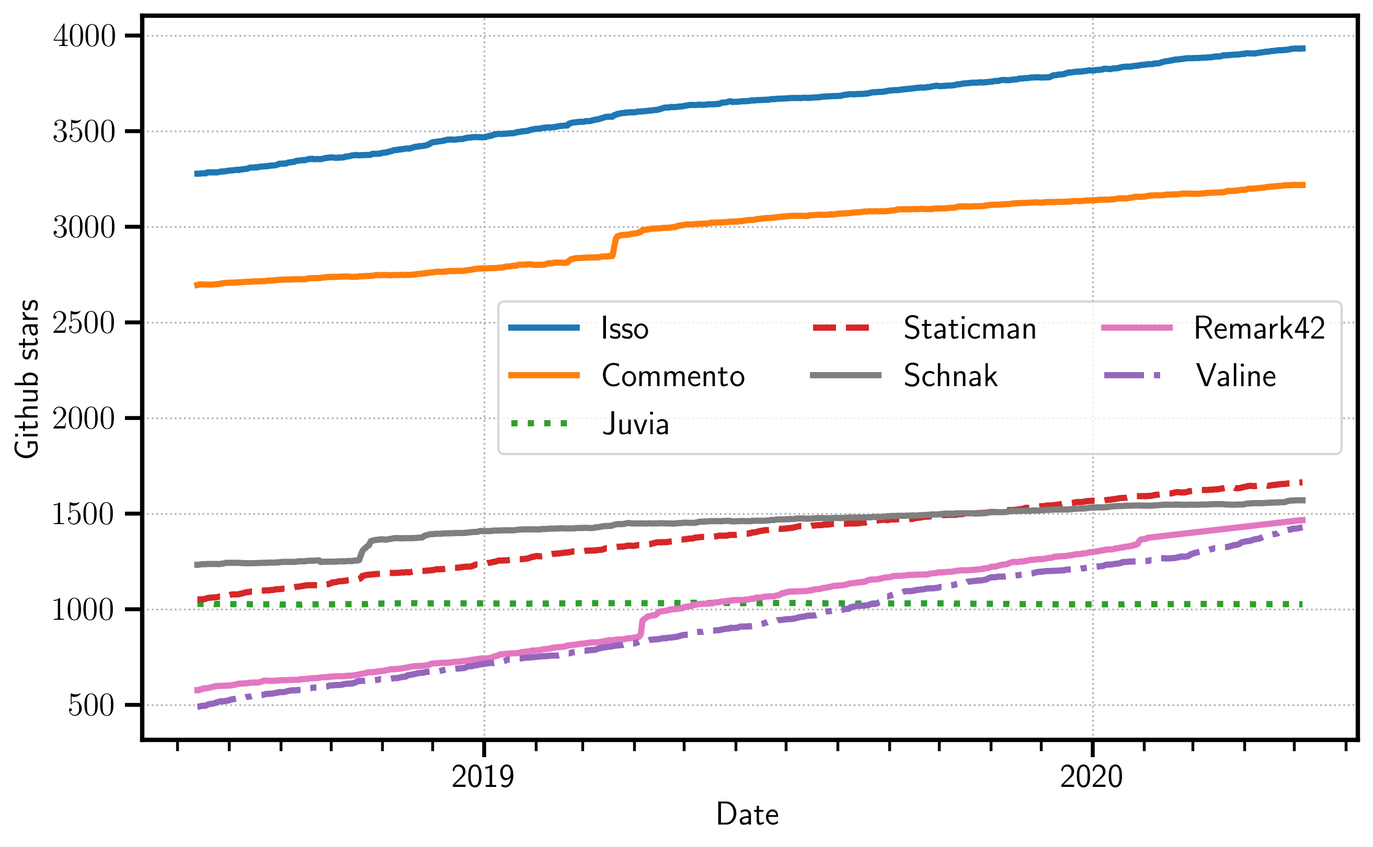
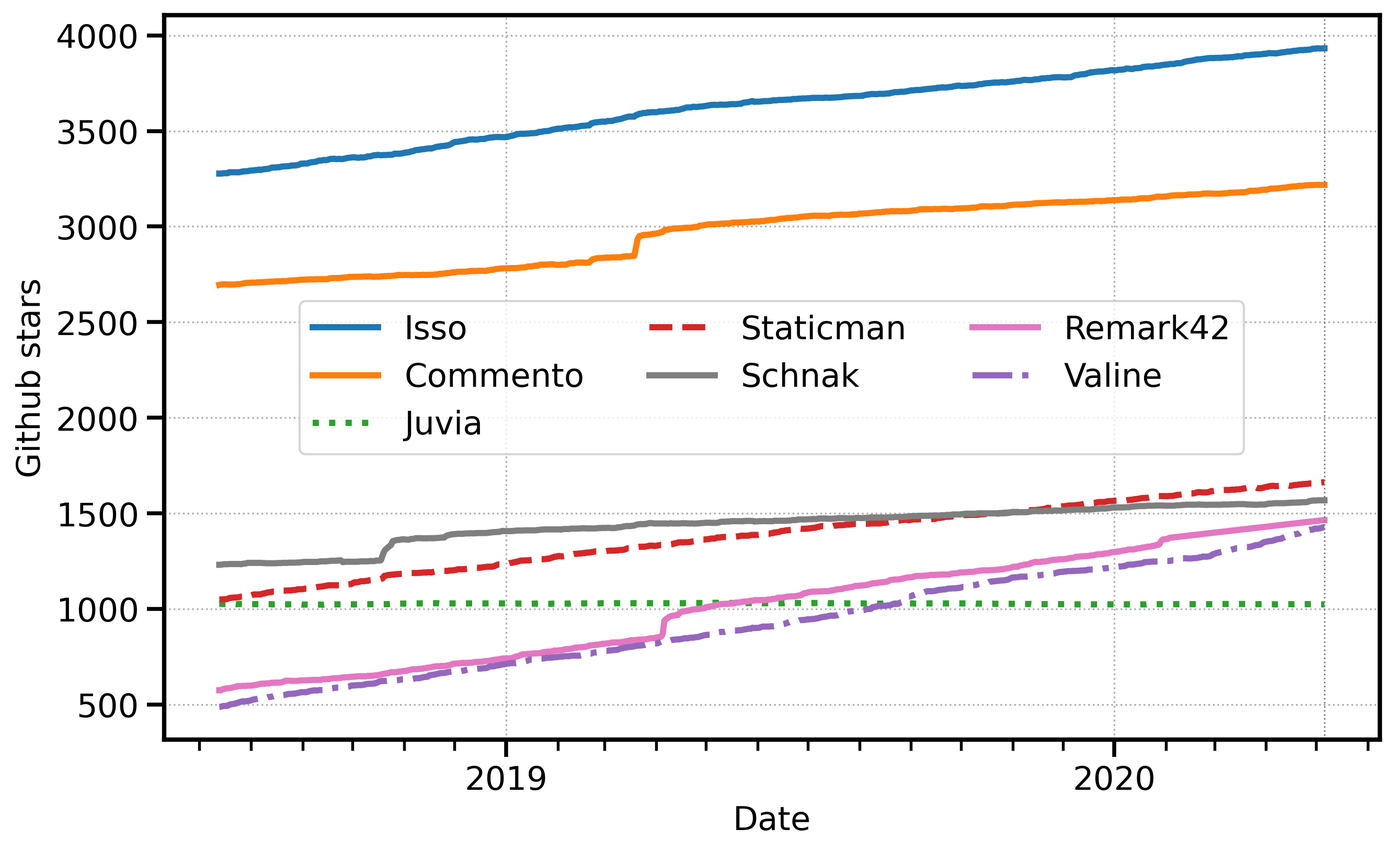
remove tex from plot

diff --git a/data.js b/data.js
@@ -3,7 +3,7 @@ var osc_data = [
 [ '3218', '5', 'Commento', '<a href="https://gitlab.com/commento/commento">gitlab</a>, <a href="https://github.com/adtac/commento">github</a>', '0', '<a href="https://demo.commento.io">demo</a>', '16', '', 'Go', 'PostgreSQL', 'yes', 'google', 'yes', 'no', '?', '?', 'yes', '?', '?', '?', 'no?', 'yes', 'currently in <a href="https://commento.io">private&nbsp;β</a>', 'yes', '?', '?', '?', '?', '?', '?', 'yes', 'yes', '', 'no', '?', 'MIT', '?', 'no', '2017‑04‑24', '2020‑04‑11', 'Lightweight commenting system', ],
 [ '1569', '10', 'Schnak', '<a href="https://github.com/schn4ck/schnack">github</a>', '30', '<a href="https://schnak.cool">demo</a>', '8', '', 'Node.js', 'SQLite?', '?', 'github, google, twitter, facebook', '?', '?', '?', 'approve comments, trust/block users', '?', '? <a href="https://tools.ietf.org/html/draft-ietf-webpush-protocol-12">webpush protocol</a>', '?', '?', '?', '?', '?', '?', '?', 'yes', '?', '?', '?', 'yes', 'yes', 'yes', '?', 'no', '?', 'NOASSERTION', '?', 'no', '2017‑10‑04', '2019‑03‑05', 'Simple Disqus-like drop-in commenting system written in JavaScript', ],
 [ '1025', '-1', 'Juvia', '<a href="https://github.com/phusion/juvia">github</a>', '26', '<a href="https://www.alfajango.com/blog/announcing-dynatable-js/">[1]</a>, <a href="https://erik.doernenburg.com/2015/08/privacy-and-this-website/">[2]</a>', '', '', 'Ruby', 'MySQL?', '?', '?', '?', '?', '?', 'Full-featured admin panel for multiple users', 'no', 'yes', 'Akismet', '?', '?', 'Gravatar', '?', '?', '?', '?', '?', '?', '?', 'yes', '?', 'yes', '', 'no', '?', 'AGPL-3.0', '?', 'no', '2011‑08‑11', '2019‑03‑14', 'Unmaintained since 2015. Not so lightweight Ruby on Rails app. Live preview &amp; elaborated admin panel.', ],
-[ '14', '0', 'SitePointNestedComments', '<a href="https://github.com/bodrovis/SitePointNestedComments">github</a>', '0', '<s><a href="http://nested-comments.radiant-wind.com/">demo</a></s>', '', '', 'Ruby', '?', '?', '?', '?', '?', '?', '?', '?', '?', '?', '?', '?', '?', '?', '?', '?', '?', '?', '?', '?', '?', '?', '?', '', 'no', '?', '?', '?', 'no', '2014‑04‑08', '2016‑11‑29', 'Rails app with the help of the closure_tree gem', ],
+[ '14', '0', 'SitePointNestedComments', '<a href="https://github.com/bodrovis/SitePointNestedComments">github</a>', '0', '<s><a href="http://nested-comments.radiant-wind.com/">demo</a></s>', '', '', 'Ruby', '?', '?', '?', '?', '?', '?', '?', '?', '?', '?', '?', '?', '?', '?', '?', '?', '?', '?', '?', '?', '?', '?', '?', '', 'no', '?', 'undefined', '?', 'no', '2014‑04‑08', '2016‑11‑29', 'Rails app with the help of the closure_tree gem', ],
 [ '1465', '?', 'Remark42', '<a href="https://github.com/umputun/remark42">github</a>', '51', '<a href="https://remark42.com/demo/">demo</a>', '7', '', 'Go', 'MongoDB, boltdb', 'yes', 'Google, Facebook, Github, Yandex', 'yes', 'within configurable time', 'yes', 'remove comments, block users', 'yes', '?', '?', '?', 'yes', 'yes', '?', 'yes', 'yes', 'yes', '?', '?', '?', 'yes', 'yes', 'yes', '', 'no', '?', 'MIT', 'all comments, post', 'no', '2017‑12‑20', '2020‑05‑04', 'Lightweight and privacy-focused', ],
 [ '1428', '24', 'Valine', '<a href="https://github.com/xCss/Valine">github</a>', '25', '<a href="https://valine.js.org/en/index.html">demo</a>', '68', '', 'Node.js', '?', 'yes', '?', '?', '?', '?', '?', 'yes', '? <a href="https://valine.js.org/en/notify.html">See</a>', 'yes, e.g., calculate expression', '?', '?', '<a href="https://valine.js.org/en/avatar.html">Gravatar</a>', '', '?', '?', '?', '?', '?', '?', '?', '?', 'poor', '', 'no', '?', 'GPL-2.0', '?', 'no', '2017‑08‑03', '2020‑04‑26', 'Leancloud-based no backend comment system', ],
 [ '524', '0', 'Mouthful', '<a href="https://github.com/vkuznecovas/mouthful">github</a>', '11', '<a href="https://mouthful.dizzy.zone/">[1]</a>, <a href="https://dizzy.zone/2018/04/19/I-made-my-own-commenting-server-Here-s-why/">[2]</a>', '44', '', 'Go', 'DynamoDB / MySQL / PostgreSQL', 'yes', 'vk.com and <a href="https://github.com/vkuznecovas/mouthful/blob/master/examples/configs/README.md#oauth-providers">36 more</a>', '?', 'no', '?', 'yes, admin panel', 'yes', '<a href="https://github.com/vkuznecovas/mouthful/issues/81">not yet</a>', '?', '?', '?', '?', 'no', 'no', 'no', 'yes', 'yes', 'yes', '?', '?', 'yes', 'yes', '', 'no', '?', 'MIT', '?', 'no', '2018‑02‑04', '2018‑08‑27', '<a href="https://dizzy.zone/2018/04/19/I-made-my-own-commenting-server-Here-s-why/">Really lightweight</a>, written in GO and Preact.', ],
@@ -14,11 +14,11 @@ var osc_data = [
 [ '203', '1', 'talkatv', '<a href="https://github.com/talkatv/talkatv">github</a>', '26', '?', '', '', 'python', '?', '?', '?', '?', '?', '?', '?', '?', '?', '?', '?', '?', '?', '?', '?', '?', '?', '?', '?', '?', '?', '?', 'yes', '', 'no', '?', 'AGPL-3.0', '?', 'no', '2012‑08‑15', '2012‑12‑03', 'One of the first popular self-hosted commenting engines. No updates since 2012', ],
 [ '161', '0', 'Wildfire', '<a href="https://github.com/cheng-kang/wildfire">github</a>', '17', '<a href="https://wildfire.js.org/">demo</a>', '', '', 'Vue?', 'Firebase/Wilddog', 'yes', '?', 'yes', '?', 'Like (for authorized)', 'delete comment, ban', '?', '?', '?', '?', '?', 'For authorized', '?', '?', '?', '?', '?', '?', '?', '?', '?', 'yes', '', 'no', '?', 'GPL-3.0', '?', 'no', '2017‑09‑02', '2019‑01‑25', 'Uses real-time databases (Firebase &amp; Wilddog) to store the comments, provides real-time communicating experience', ],
 [ '96', '0', 'External-comments', '<a href="https://github.com/skx/e-comments">github</a>', '0', '?', '', '', 'Ruby', 'SQLite/Redis', '?', '?', '?', '?', '?', 'No admin panel', 'configurable', 'No', 'yes', '?', '?', '?', '?', '?', '?', '?', '?', '?', '?', '?', '?', 'yes', 'jQuery.js, mustache.js', 'no', '?', 'MIT', '?', 'no', '2014‑02‑02', '2018‑01‑23', 'Written in Ruby using the sinatra framework.', ],
-[ '59', '0', 'Realtime comments', '<a href="https://github.com/pusher-community/realtime-commenting">github</a>', '0', '<a href="http://realtime-commenting.herokuapp.com/">demo</a>', '', '', 'php', '?', '?', '?', '?', '?', '?', '?', '?', '?', '?', '?', '?', '?', '?', '?', '?', '?', '?', '?', '?', '?', '?', 'yes', '?', 'no', '?', '?', '?', 'no', '2012‑02‑24', '2016‑04‑22', '', ],
+[ '59', '0', 'Realtime comments', '<a href="https://github.com/pusher-community/realtime-commenting">github</a>', '0', '<a href="http://realtime-commenting.herokuapp.com/">demo</a>', '', '', 'php', '?', '?', '?', '?', '?', '?', '?', '?', '?', '?', '?', '?', '?', '?', '?', '?', '?', '?', '?', '?', '?', '?', 'yes', '?', 'no', '?', 'undefined', '?', 'no', '2012‑02‑24', '2016‑04‑22', '', ],
 [ '53', '0', 'comments-app', '<a href="https://github.com/dyu/comments">github</a>', '3', '<a href="https://dyu.github.io/comments/">demo</a>', '91.8', '7.1', 'Node.js?', '?', 'yes', 'google, github, gitlab', '?', 'no', 'no', '?', 'yes', '?', '?', '?', '?', '?', '<a href="https://github.com/dyu/comments#instant-comments-on-your-siteblog">yes</a>', 'yes', '?', '?', '?', '?', '?', '?', '?', 'yes', 'jdk7 (server)', 'no', 'yes', 'Apache-2.0', '?', 'no', '2017‑05‑05', '2019‑01‑20', 'See <a href="https://lobste.rs/s/g3dfeu/markdown_enabled_comment_engine_for">discussion</a>', ],
 [ '47', '0', 'Master comments', '<a href="https://github.com/ionutvmi/master-comments-system">github</a>', '6', '<a href="https://camo.githubusercontent.com/54fabf226fb3854c18382596ddf76315274020cb/687474703a2f2f7075752e73682f334f3639562e706e67">demo</a>', '', '', 'php', 'MySQL', '?', '?', '?', 'yes', '?', 'Edit, delete, ban', '?', '?', '?', '?', '?', '?', '?', '?', '?', '?', '?', '?', '?', '?', '?', 'yes', '?', 'no', '?', 'MIT', '?', 'no', '2013‑07‑22', '2018‑07‑19', 'No code updates since 2013', ],
-[ '36', '0', 'jskomment', '<a href="https://github.com/monperrus/jskomment">github</a>', '1', '<a href="https://www.monperrus.net/martin/open+source+ajax+commenting+system">demo</a>', '', '', 'AJAX', '?', '?', '?', '?', '?', '?', '?', '?', 'yes?', 'captcha', '?', '?', '?', '?', '?', '?', '?', '?', '?', '?', '?', '?', 'yes', '?', 'no', '?', '?', '?', 'no', '2013‑12‑08', '2018‑08‑31', '', ],
-[ '30', '0', 'Squabble', '<a href="https://github.com/savaslabs/squabble">github</a>', '1', '<a href="https://savaslabs.com/2016/10/25/deploy-jekyll-with-travis.html">demo</a>', '', '', 'php', 'SQLite', '?', '?', '?', '?', '?', '?', '?', '?', '?', '?', '?', '?', '?', '?', '?', 'yes', '?', '?', '?', '?', '?', 'yes', '?', 'no', '?', '?', '?', 'no', '2015‑05‑13', '2018‑02‑02', '', ],
+[ '36', '0', 'jskomment', '<a href="https://github.com/monperrus/jskomment">github</a>', '1', '<a href="https://www.monperrus.net/martin/open+source+ajax+commenting+system">demo</a>', '', '', 'AJAX', '?', '?', '?', '?', '?', '?', '?', '?', 'yes?', 'captcha', '?', '?', '?', '?', '?', '?', '?', '?', '?', '?', '?', '?', 'yes', '?', 'no', '?', 'undefined', '?', 'no', '2013‑12‑08', '2018‑08‑31', '', ],
+[ '30', '0', 'Squabble', '<a href="https://github.com/savaslabs/squabble">github</a>', '1', '<a href="https://savaslabs.com/2016/10/25/deploy-jekyll-with-travis.html">demo</a>', '', '', 'php', 'SQLite', '?', '?', '?', '?', '?', '?', '?', '?', '?', '?', '?', '?', '?', '?', '?', 'yes', '?', '?', '?', '?', '?', 'yes', '?', 'no', '?', 'undefined', '?', 'no', '2015‑05‑13', '2018‑02‑02', '', ],
 [ '22', '0', 'comment-sidecar', '<a href="https://github.com/phauer/comment-sidecar">github</a>', '0', '<a href="https://raw.githubusercontent.com/phauer/comment-sidecar/master/screenshot-frontend.png">demo</a>', '', '', 'php', 'MySQL', '?', '?', 'yes', '?', '?', '?', '?', 'yes', '?', '?', '?', 'Gravatar', '?', '?', '?', 'yes', '?', '?', '?', '?', 'yes', 'yes', '', 'no', '?', 'MIT', '?', 'no', '2017‑05‑21', '2018‑05‑30', 'β', ],
 [ '', '?', 'JP_Comment', '<a href="https://github.com/dogloving/JP-Comment">github</a>', '0', '<a href="https://raw.githubusercontent.com/dogloving/JP-Comment/master/assets/img/show.gif">demo</a>', '', '', 'php', '?', '?', '?', '?', '?', '?', '?', '?', '?', '?', '?', '?', '?', '?', '?', '?', '?', '?', '?', '?', '?', '?', 'no (Chinese)', '?', 'no', '?', 'MIT', '?', 'no', '2017‑10‑01', '2018‑05‑13', '', ],
 [ '1663', '11', 'Staticman', '<a href="https://github.com/eduardoboucas/staticman">github</a>', '86', '<a href="https://eduardoboucas.com/blog/2016/08/10/staticman.html">[1]</a>, <a href="https://hugo.staticman.net/post/my-entry/">[2]</a>', '', '', 'Node.js', '', '?', '?', 'yes', '?', '?', '?', '?', 'yes', '?', '?', '?', '?', '?', '?', '?', '?', '?', '?', '?', '?', '?', 'yes', '?', 'no', '?', 'MIT', '?', 'yes', '2015‑07‑10', '2020‑03‑07', 'Staticman uploads comments as data files to a GH repository and triggers the site rebuild', ],
@@ -29,29 +29,29 @@ var osc_data = [
 [ '6', '0', 'chatter', '<a href="https://github.com/joealcorn/chatter">github</a>', '0', '<a href="https://joealcorn.github.io/chatter/">demo</a>', '', '', '?', '?', '?', '?', 'yes', '?', '?', '?', '?', '?', '?', '?', '?', '?', '?', '?', '?', '?', '?', '?', '?', '?', '?', '?', '?', 'no', '?', 'MIT', '?', 'no', '2018‑01‑29', '2018‑05‑09', 'Uses <a href="https://github.com/Miserlou/Zappa">Zappa</a> and <a href="https://aws.amazon.com/lambda/?nc1=h_ls">AWS Lambda</a>', ],
 [ '15', '0', 'Node Comments', '<a href="https://github.com/pvorb/node-comments">github</a>', '0', '?', '', '', 'Node.js', 'MongoDB', '?', '?', '?', '?', '?', '?', '?', '?', '?', '?', '?', '?', '?', '?', '?', '?', '?', '?', '?', '?', '?', '?', '?', 'no', '?', 'MIT', '?', 'no', '2011‑09‑18', '2012‑08‑08', 'An abstraction layer for MongoDB that provides some commenting functionality', ],
 [ '2', '0', 'platon', '<a href="https://github.com/pvorb/platon">github</a>', '3', '?', '', '', 'Java', '?', '?', '?', '?', '?', '?', '?', '?', '?', '?', '?', '?', '?', '?', '?', '?', '?', '?', '?', '?', '?', '?', '?', '?', 'no', '?', 'Apache-2.0', '?', 'no', '2015‑07‑08', '2016‑02‑16', '', ],
-[ '1', '0', 'AJAX Comment System', '<a href="https://github.com/MaksimSergeev/AJAX-Comments-System">github</a>', '0', '<a href="https://raw.githubusercontent.com/MaksimSergeev/AJAX-Comments-System/master/Ajax%20comments.JPG">demo</a>', '', '', 'php', '?', '?', '?', '?', '?', '?', '?', '?', '?', '?', '?', '?', '?', '?', '?', '?', '?', '?', '?', '?', '?', '?', 'no (Russian)', '?', 'no', '?', '?', '?', 'no', '2017‑09‑02', '2017‑09‑10', '', ],
+[ '1', '0', 'AJAX Comment System', '<a href="https://github.com/MaksimSergeev/AJAX-Comments-System">github</a>', '0', '<a href="https://raw.githubusercontent.com/MaksimSergeev/AJAX-Comments-System/master/Ajax%20comments.JPG">demo</a>', '', '', 'php', '?', '?', '?', '?', '?', '?', '?', '?', '?', '?', '?', '?', '?', '?', '?', '?', '?', '?', '?', '?', '?', '?', 'no (Russian)', '?', 'no', '?', 'undefined', '?', 'no', '2017‑09‑02', '2017‑09‑10', '', ],
 [ '182', '0', 'Jekyll::StaticComments', '<a href="https://github.com/mpalmer/jekyll-static-comments">github</a>', '8', '<a href="http://theshed.hezmatt.org/jekyll-static-comments/">demo</a>', '0', '', 'php', '?', '?', '?', '?', '?', '?', '?', '?', 'yes', '?', '?', 'no', 'no', '', '?', '?', '', '?', '?', '?', '?', '?', 'yes', 'Jekyll', 'no', '?', 'GPL-3.0', '?', 'yes', '2011‑07‑19', '2014‑02‑11', 'For Jekyll. PHP script sends the comment to the server and creates yaml files in a special folder. On site rebuild, these comments are added into the html code of the page', ],
 [ '1', '0', 'RocketFirm Comments', '<a href="https://github.com/naffiq/yii2-rocket-comments">github</a>', '0', '?', '', '', 'php', 'MySQL', '?', '?', '?', '?', '?', '?', '?', '?', '?', '?', '?', '?', '?', '?', '?', '?', '?', '?', '?', '?', '?', '?', '?', 'no', '?', 'MIT', '?', 'no', '2016‑03‑03', '2017‑03‑03', '', ],
-[ '', '?', 'react-comment-system', '<a href="https://github.com/Bitveen/react-comment-system">github</a>', '0', '?', '', '', 'Node.js?', '?', '?', '?', '?', '?', '?', '?', '?', '?', '?', '?', '?', '?', '?', '?', '?', '?', '?', '?', '?', '?', '?', 'no documentation', '?', 'no', '?', '?', '?', 'no', '2016‑12‑23', '2016‑12‑23', '', ],
-[ '15', '0', 'EasyPageComments', '<a href="https://github.com/Pomax/EasyPageComments">github</a>', '4', '<a href="http://pomax.nihongoresources.com/pages/EasyPageComments/">demo</a>', '8', '3', 'php', 'SQLite', '?', '?', '?', '?', '?', '?', 'yes', '?', '?', '?', '?', '?', '?', '?', '?', '?', '?', '?', '?', '?', '?', '?', '?', 'no', '?', '?', 'per comment section', 'no', '2011‑10‑29', '2019‑01‑21', '', ],
+[ '', '?', 'react-comment-system', '<a href="https://github.com/Bitveen/react-comment-system">github</a>', '0', '?', '', '', 'Node.js?', '?', '?', '?', '?', '?', '?', '?', '?', '?', '?', '?', '?', '?', '?', '?', '?', '?', '?', '?', '?', '?', '?', 'no documentation', '?', 'no', '?', 'undefined', '?', 'no', '2016‑12‑23', '2016‑12‑23', '', ],
+[ '15', '0', 'EasyPageComments', '<a href="https://github.com/Pomax/EasyPageComments">github</a>', '4', '<a href="http://pomax.nihongoresources.com/pages/EasyPageComments/">demo</a>', '8', '3', 'php', 'SQLite', '?', '?', '?', '?', '?', '?', 'yes', '?', '?', '?', '?', '?', '?', '?', '?', '?', '?', '?', '?', '?', '?', '?', '?', 'no', '?', 'undefined', 'per comment section', 'no', '2011‑10‑29', '2019‑01‑21', '', ],
 [ '609', '0', 'lambda-comments', '<a href="https://github.com/jimpick/lambda-comments">github</a>', '8', '<a href="https://jimpick.com/2016/05/05/introducing-lambda-comments/">demo</a>', '', '', 'Node.js', 'DynamoDB', '?', '?', '?', '?', '?', '?', '?', '?', 'Akismet', '?', '?', '?', '?', '?', '?', '?', '?', '?', '?', '?', '?', '?', '?', 'no', '?', 'ISC', '?', 'no', '2016‑04‑08', '2016‑07‑27', '“Serverless”, uses: <a href="http://docs.aws.amazon.com/apigateway/latest/developerguide/welcome.html">API Gateway</a>, <a href="http://docs.aws.amazon.com/lambda/latest/dg/welcome.html">Lambda</a>, <a href="http://docs.aws.amazon.com/AWSJavaScriptSDK/latest/AWS/S3.html">S3</a>, <a href="http://docs.aws.amazon.com/amazondynamodb/latest/developerguide/Streams.html">DynamoDB streams</a>, <a href="http://docs.aws.amazon.com/IAM/latest/UserGuide/introduction.html">IAM</a>, <a href="http://docs.aws.amazon.com/AmazonCloudWatch/latest/DeveloperGuide/WhatIsCloudWatch.html">CloudWatch Logs</a>', ],
 [ '17', '0', 'Jekyll AWS Comments', '<a href="https://github.com/ummels/jekyll-aws-comments">github</a>', '0', '?', '', '', '?', '?', '?', '?', '?', '?', '?', '?', '?', '?', '?', '?', '?', 'Gravatar', '', '?', '?', '?', '?', '?', '?', '?', '?', '?', '?', 'no', '?', 'ISC', '?', 'yes', '2016‑02‑21', '2017‑04‑25', 'Static comments for Jekyll with AWS Lambda and Github', ],
 [ '25', '0', 'Commentics', '<a href="https://github.com/commentics/commentics">github</a>', '3', '<a href="https://www.commentics.org/demo">demo</a>', '', '', 'php', '?', '?', '?', '?', '?', '?', 'Admin panel', '?', 'yes', 'Akismet', '?', '?', '?', '?', '?', '?', '?', '?', '?', '?', '?', '?', '?', '?', 'no', 'yes', 'GPL-3.0', '?', 'no', '2016‑11‑05', '2020‑01‑25', '', ],
-[ '44', '0', 'Commentar', '<a href="https://github.com/Commentar/Commentar">github</a>', '3', '?', '', '', 'php', '?', 'yes', '?', '?', '?', 'yes', 'yes', '?', '?', 'yes', '?', '?', '?', '?', '?', '?', '?', '?', '?', '?', '?', '?', '?', '?', 'no', '?', '', '?', 'no', '2013‑08‑18', '2014‑07‑26', '', ],
+[ '44', '0', 'Commentar', '<a href="https://github.com/Commentar/Commentar">github</a>', '3', '?', '', '', 'php', '?', 'yes', '?', '?', '?', 'yes', 'yes', '?', '?', 'yes', '?', '?', '?', '?', '?', '?', '?', '?', '?', '?', '?', '?', '?', '?', 'no', '?', 'undefined', '?', 'no', '2013‑08‑18', '2014‑07‑26', '', ],
 [ '78', '0', 'komentify', '<a href="https://github.com/komentify/meteor-comments-ui">github</a>', '11', '<a href="https://www.komentify.io/">[1]</a>, <a href="https://raw.githubusercontent.com/ARKHAM-Enterprises/meteor-comments-ui/master/screenshot.png">[2]</a>', '', '', 'Javascript (Meteor app)', '?', '?', '?', 'yes', '?', 'yes', '?', '?', '?', '?', '?', '?', '?', '?', '?', '?', '?', '?', '?', '?', '?', '?', 'yes', '<a href="https://github.com/meteor/meteor">Meteor</a>', 'no', 'yes', 'MIT', '?', 'no', '2014‑12‑14', '2017‑06‑09', 'Based on the Meteor accounts system', ],
-[ '56', '0', 'Commentary', '<a href="https://github.com/sdqali/commentary">github</a>', '0', '?', '', '', 'Ruby', '?', '?', '?', '?', '?', '?', '?', '?', '?', '?', '?', '?', '?', '?', '?', '?', '?', '?', '?', '?', '?', '?', '?', '?', 'no', '?', '', '?', 'no', '2013‑09‑01', '2013‑09‑09', '', ],
+[ '56', '0', 'Commentary', '<a href="https://github.com/sdqali/commentary">github</a>', '0', '?', '', '', 'Ruby', '?', '?', '?', '?', '?', '?', '?', '?', '?', '?', '?', '?', '?', '?', '?', '?', '?', '?', '?', '?', '?', '?', '?', '?', 'no', '?', 'undefined', '?', 'no', '2013‑09‑01', '2013‑09‑09', '', ],
 [ '225', '4', 'GoTell', '<a href="https://github.com/netlify/gotell">github</a>', '4', '?', '', '', 'Go', '?', '?', '?', '?', '?', '?', '?', '?', '?', '?', 'yes', '?', '?', '?', '?', '?', '?', '?', '?', '?', '?', '?', '?', 'For Netlify', 'no', '?', 'MIT', '?', 'yes', '2016‑09‑22', '2019‑09‑11', 'Netlify Comments is an API and build tool for handling large amounts of comments for JAMstack products', ],
-[ '86', '1', 'Jamstack Comments Engine', '<a href="https://github.com/philhawksworth/jamstack-comments-engine">github</a>', '3', '<a href="https://jamstack-comments.netlify.com/posts/comments-on-your-content-in-your-content/">demo</a>', '', '', '?', '?', '?', '?', '?', 'no', 'no', '?', '?', '?', '?', '?', '?', 'Gravatar', '?', '?', '?', '?', '?', '?', '?', '?', '?', '?', 'For Netlify', 'no', 'yes', '', '?', 'yes', '2018‑03‑21', '2019‑08‑20', 'Uses AWS Lambda, for use with Netlify', ],
+[ '86', '1', 'Jamstack Comments Engine', '<a href="https://github.com/philhawksworth/jamstack-comments-engine">github</a>', '3', '<a href="https://jamstack-comments.netlify.com/posts/comments-on-your-content-in-your-content/">demo</a>', '', '', '?', '?', '?', '?', '?', 'no', 'no', '?', '?', '?', '?', '?', '?', 'Gravatar', '?', '?', '?', '?', '?', '?', '?', '?', '?', '?', 'For Netlify', 'no', 'yes', 'undefined', '?', 'yes', '2018‑03‑21', '2019‑08‑20', 'Uses AWS Lambda, for use with Netlify', ],
 [ '8', '0', 'Stapsher', '<a href="https://github.com/extraStatic/stapsher">github</a>', '0', '?', '', '', 'Node.js', '', '?', '?', '?', '?', '?', '?', '?', '?', '?', '?', '?', '?', '?', '?', '?', '?', '?', '?', '?', '?', '?', '?', '?', 'no', '?', 'MIT', '?', 'yes', '2018‑04‑13', '2018‑11‑15', 'Stapsher is an API service for handling user-generated contents on static sites', ],
 [ '', 'None', 'Pelican Static Comments', '<a href="https://github.com/getpelican/pelican-plugins/tree/master/static_comments">github</a>', 'None', '<a href="http://jesrui.sdf-eu.org/pelican-static-comments.html">[1]</a>, <a href="https://bernhard.scheirle.de/posts/2014/March/29/static-comments-via-email/">[2]</a>', '', '', 'python (<a href="https://github.com/getpelican/pelican">Pelican</a> plugin)', '?', 'yes', '?', '?', 'no', 'no', '?', '?', '?', 'no', 'no', '?', 'id-icon', '?', '?', '?', '?', '?', '?', '?', 'no', 'no', 'yes', '?', 'no', '?', '', '?', 'yes', '2014&#8209;03&#8209;04', '2014&#8209;03&#8209;04', '<a href="https://github.com/getpelican/pelican">Pelican</a> plugin. No stars because there is no separate repo.', ],
 [ '94', '0', 'Comm(ent|it)', '<a href="https://github.com/jillro/commentit">github</a>', '5', '?', '12', '', 'Node.js', 'Redis &amp; MongoDB', 'yes', 'Github, Facebook, Twitter', 'no', 'no', 'no', '?', '?', 'no', 'no', 'no', 'no', 'Gravatar or Twitter', '?', '?', '?', 'no', '?', '?', 'no', 'no', 'no', 'yes', 'Jekyll &amp; Guthub Pages', 'no', '?', 'AGPL-3.0', '?', 'no', '2015‑10‑04', '2019‑06‑10', 'Comm(ent|it) uses the Github API and Jekyll to help storing visitors comments directly in Github Pages repository', ],
-[ '206', '0', 'YoYo', '<a href="https://github.com/metrue/YoYo">github</a>', '10', '<a href="https://minghe.me/yoyo/">demo</a>', '', '', 'Node.js?', 'DynamoDB', '?', '?', 'yes', '?', '?', '?', '?', '?', '?', '?', '?', '?', '?', '?', '?', '?', '?', '?', '?', '?', '?', '?', '?', 'no', '?', 'MIT', '?', '?', '2017‑02‑25', '2020‑04‑10', 'AWS Lambda &amp; React “serverless” commenting engine', ],
+[ '206', '0', 'YoYo', '<a href="https://github.com/metrue/YoYo">github</a>', '10', '<a href="https://minghe.me/yoyo/">demo</a>', '', '', 'Node.js?', 'DynamoDB', '?', '?', 'yes', '?', '?', '?', '?', '?', '?', '?', '?', '?', '?', '?', '?', '?', '?', '?', '?', '?', '?', '?', '?', 'no', '?', 'undefined', '?', '?', '2017‑02‑25', '2020‑04‑10', 'AWS Lambda &amp; React “serverless” commenting engine', ],
 [ '6', '0', 'React-QuietWater', '<a href="https://github.com/NE-SmallTown/React-QuietWater">github</a>', '1', '<a href="https://ne-smalltown.github.io/">demo</a>', '', '', 'Node.js?', '?', '?', '?', '?', '?', '?', '?', '?', '?', '?', '?', '?', '?', '?', '?', '?', '?', '?', '?', '?', '?', '?', 'yes', '?', 'no', '?', 'MIT', '?', 'no', '2017‑03‑27', '2017‑09‑12', 'React-QuietWater is a comment system based on <a href="https://github.com/facebook/react">react</a>, <a href="https://github.com/gajus/babel-plugin-react-css-modules">react-css-modules</a> and <a href="https://github.com/tommikaikkonen/redux-orm">redux-orm</a>', ],
 [ '43', '0', 'Some comments', '<a href="https://github.com/fiddur/some-comments">github</a>', '23', '?', '', '', 'Node.js', 'SQLite', '?', 'Facebook, Google', 'yes', '?', '?', '?', '?', 'yes', '?', '?', '?', '?', '?', '?', '?', '?', '?', '?', '?', '?', '?', '?', '?', 'no', '?', 'AGPL-3.0', '?', 'no', '2015‑04‑10', '2018‑06‑15', '', ],
 [ '21', '1', 'Jekyll Blog Comments', '<a href="https://github.com/Azure-Functions/jekyll-blog-comments">github</a>', '1', '<a href="https://haacked.com/archive/2018/06/24/comments-for-jekyll-blogs/">demo</a>', '', '', '?', '?', 'yes', '?', '?', 'no', '?', 'yes', 'no', '?', '?', '?', '?', 'yes', '?', '?', '?', '?', 'no', '?', '?', '?', '?', '?', '?', 'no', '?', 'MIT', '?', 'yes', '2018‑04‑08', '2019‑03‑28', 'An Azure Function App that receives comment form posts and creates a pull request against your GitHub repository as part of the <a href="https://github.com/damieng/jekyll-blog-comments">jekyll-blog-comments</a> system', ],
 [ '112', '0', 'jekyll-webmention_io', '<a href="https://github.com/aarongustafson/jekyll-webmention_io">github</a>', '16', '<a href="https://www.aaron-gustafson.com/notebook/">demo</a>', '?', '?', 'Ruby', '?', '?', '?', '?', '?', '?', '?', 'no', 'no', '?', '?', '?', '?', '?', '?', '?', '?', '?', '?', '?', '?', 'no', '?', 'Jekyll, webmention.io', 'yes', '?', 'MIT', '?', '?', '2014‑11‑17', '2019‑03‑11', '?', ],
 [ '13', '1', 'JustComments', '<a href="https://github.com/JustComments/jc-server">github</a>', '0', '<a href="https://just-comments.com/demo.html">demo</a>', '', '', 'Node.js', 'DynamoDB', '?', '?', '?', '?', '?', '?', '?', '?', '?', '?', '?', '?', '?', '?', '?', '?', '?', '?', '?', '?', '?', 'yes', '?', 'no', '?', 'MIT', '?', 'no', '2019‑07‑22', '2019‑07‑26', 'Open-source self-hosted implementation offers basic commenting. Paid hosting service includes more features', ],
-[ '', '?', 'comments-vivalaakam', '<a href="https://github.com/vivalaakam/comments">github</a>', '0', '?', '', '', 'Node.js?', '?', '?', '?', '?', '?', '?', '?', '?', '?', '?', '?', '?', '?', '?', '?', '?', '?', '?', '?', '?', '?', '?', '?', '?', 'no', '?', '?', '?', 'no', '2014‑07‑20', '2015‑05‑24', '', ],
+[ '', '?', 'comments-vivalaakam', '<a href="https://github.com/vivalaakam/comments">github</a>', '0', '?', '', '', 'Node.js?', '?', '?', '?', '?', '?', '?', '?', '?', '?', '?', '?', '?', '?', '?', '?', '?', '?', '?', '?', '?', '?', '?', '?', '?', 'no', '?', 'undefined', '?', 'no', '2014‑07‑20', '2015‑05‑24', '', ],
 ]
 var cols=[
 {title: "Github stars"}, 

diff --git a/get_data.py b/get_data.py
@@ -141,15 +141,16 @@ for filename in os.listdir(p):
 
                 if api_data.get('license'):
                     if 'spdx_id' in api_data['license']:
-                        license = api_data['license']['spdx_id'] # 'MIT'
                         if data.get(cs):
-                            data[cs]['license'] = license
+                            data[cs]['license'] = api_data['license']['spdx_id']  # MIT
                     elif 'name' in api_data['license']:
-                        license = api_data['license']['name']    # 'MIT License'
                         if data.get(cs):
-                            data[cs]['license'] = license
+                            data[cs]['license'] = api_data['license']['name'] # MIT License
+                else:
+                    data[cs]['license'] = 'undefined'
+
                 dtr[cs] = {"stars" : stars, "created" : created, "open_issues" : open_issues, 
-                         "license" : license}
+                         "license" : data[cs]['license']}
 
                 # Update the values
                 if created != 'undefined' and data.get(cs):
@@ -179,6 +180,8 @@ for filename in os.listdir(p):
                     last_commit = dateutil.parser.parse(api_commit_data['commit']['committer']['date']).strftime('%Y‑%m‑%d')
                     #data[cs]['last_commit'] = last_commit
                     dtr [cs]['last_commit'] = last_commit
+
+print(dtr['site_point_nested_comments'])
 
 with open(fdate, 'a', encoding='utf-8') as f:
     json.dump(dtr, f, ensure_ascii=False, indent=4, sort_keys = True)

diff --git a/plot-stars.py b/plot-stars.py
@@ -21,7 +21,7 @@ from datetime import date
 
 fs=15
 rc('axes', linewidth=2)
-rc('text', usetex=True)
+rc('text', usetex=False)
 rc('legend', fontsize=fs)
 rc('font',  size=fs)
 rc('font',  family='sans-serif')

diff --git a/yaml_2_js.py b/yaml_2_js.py
@@ -182,3 +182,5 @@ with open("data.js", 'w') as out:
     for fi in fields:
         print ('{title: "' + fields_dic[fi] + '"}, ', file=out)
     print(']', file=out)
+
+print('data.js has been updated')

diff --git a/md_to_html.py b/md_to_html.py
@@ -43,3 +43,5 @@ with open('index.html', 'r+') as f:
     f.seek(0)
     f.write(text)
     f.truncate()
+
+print('index.html has been updated')
